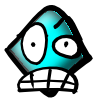
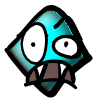
Emotions was realized.

Changed region(s): [[0.15, 0.57, 0.81, 0.96]]

diff --git a/trunk/dicewars/src/ru/icl/dicewars/gui/InfoJPanel.java b/trunk/dicewars/src/ru/icl/dicewars/gui/InfoJPanel.java
@@ -15,7 +15,7 @@ public class InfoJPanel extends JPanel {
 	private static final int WIDTH = 180;
 	private static final int HEIGHT = 80;
 	
-	private Map<Flag, PlayerJPanel> players = new HashMap<Flag, PlayerJPanel>();
+	private Map<Flag, PlayerJPanel> playerJPanelMap = new HashMap<Flag, PlayerJPanel>();
 	private Flag winner;
 	private int winnerCount;
 	
@@ -25,14 +25,14 @@ public class InfoJPanel extends JPanel {
 	
 	public void initPlayers(FlagDistributedActivity fda) {
 		int yoffset = 10;
-		for (PlayerJPanel playerPanel : players.values()){
+		for (PlayerJPanel playerPanel : playerJPanelMap.values()){
 			this.remove(playerPanel);
 		}
-		players.clear();
+		playerJPanelMap.clear();
 		for (Flag flag : fda.getFlags()) {
 			PlayerJPanel player = new PlayerJPanel(flag, fda.getNameByFlag(flag));
 			player.setBounds(10, yoffset, WIDTH, HEIGHT);
-			players.put(flag, player);
+			playerJPanelMap.put(flag, player);
 			add(player);
 			yoffset += HEIGHT + 10;
 		}
@@ -41,58 +41,70 @@ public class InfoJPanel extends JPanel {
 	}
 	
 	public void updateReserve(Flag flag, int diceCount) {
-		if (players.containsKey(flag)) {
-			players.get(flag).setReserveCount(diceCount);
-			players.get(flag).repaint();
+		if (playerJPanelMap.containsKey(flag)) {
+			playerJPanelMap.get(flag).setReserveCount(diceCount);
+			playerJPanelMap.get(flag).repaint();
 		}
 	}
 
-	public void updateDiceCount(Flag flag, int count) {
-		if (players.containsKey(flag)) {
-			players.get(flag).setDiceOverallCount(count);
+	public void updateDiceCount(Flag flag, int totalDiceCount) {
+		if (playerJPanelMap.containsKey(flag)) {
+			playerJPanelMap.get(flag).setTotalDiceCount(totalDiceCount);
 			if (winner != null) {
 				if (!flag.equals(winner)) {
-					if (count > winnerCount) {
-						winnerCount = count;
+					if (totalDiceCount > winnerCount) {
+						winnerCount = totalDiceCount;
 						changeWinnerTo(winner, flag);
+						for (PlayerJPanel playerJPanel : playerJPanelMap.values()){
+							playerJPanel.setWinnerTotalDiceCount(winnerCount);
+							playerJPanel.repaint();
+						}
 					}	
-				} else if (count > winnerCount) {
-					winnerCount = count;
+				} else if (totalDiceCount > winnerCount) {
+					winnerCount = totalDiceCount;
+					for (PlayerJPanel playerJPanel : playerJPanelMap.values()){
+						playerJPanel.setWinnerTotalDiceCount(winnerCount);
+						playerJPanel.repaint();
+					}
 				} else { // check if another player became a winner
-					winnerCount = count;
+					winnerCount = totalDiceCount;
 					Flag previousWinner = winner;
-					for (PlayerJPanel player : players.values()) {
-						if (!player.getFlag().equals(winner) && player.getDiceOverallCount() > winnerCount) {
+					for (PlayerJPanel player : playerJPanelMap.values()) {
+						if (!player.getFlag().equals(winner) && player.getTotalDiceCount() > winnerCount) {
 							winner = player.getFlag();
-							winnerCount = player.getDiceOverallCount(); 
+							winnerCount = player.getTotalDiceCount(); 
 						}
 					}
 					// winner has been changed
 					if (!previousWinner.equals(winner)) {
 						changeWinnerTo(previousWinner, winner);
+						for (PlayerJPanel playerJPanel : playerJPanelMap.values()){
+							playerJPanel.setWinnerTotalDiceCount(winnerCount);
+							playerJPanel.repaint();
+						}
 					}
 				}
 			} else {
 				winner = flag;
-				winnerCount = count;
-				players.get(flag).setWinner(true);
+				winnerCount = totalDiceCount;
+				playerJPanelMap.get(flag).setWinner(true);
 			}
-			players.get(flag).repaint();
+			playerJPanelMap.get(flag).repaint();
 		}
 	}
 	
 	private void changeWinnerTo(Flag from, Flag to) {
-		players.get(from).setWinner(false);
-		players.get(from).repaint();
-		players.get(to).setWinner(true);
-		players.get(to).repaint();
+		playerJPanelMap.get(from).setWinner(false);
+		playerJPanelMap.get(from).repaint();
+		playerJPanelMap.get(to).setWinner(true);
+		playerJPanelMap.get(to).repaint();
 		winner = to;
 	}
 	
 	public void updateAreaCount(Flag flag, int count) {
-		if (players.containsKey(flag)) {
-			players.get(flag).setAreaCount(count);
-			players.get(flag).repaint();
+		if (playerJPanelMap.containsKey(flag)) {
+			playerJPanelMap.get(flag).setAreaCount(count);
+			playerJPanelMap.get(flag).repaint();
 		}
 	}
 	

diff --git a/trunk/dicewars/src/ru/icl/dicewars/gui/PlayerJPanel.java b/trunk/dicewars/src/ru/icl/dicewars/gui/PlayerJPanel.java
@@ -18,15 +18,14 @@ public class PlayerJPanel extends JPanel {
 	private Flag flag;
 	private Color color;
 	private String playerName;
-	private int diceOverallCount = 0;
+	private int totalDiceCount = 0;
 
 	private int areaCount = 0;
 	private int reserveCount = 0;
-	private boolean outOfTheGame = false;
+	private int winnerTotalDiceCount = 0;
 	private int rank = 0;
 	private boolean winner = false;
-	
-	
+		
 	private final static int radius = 12; 
 	private final static int alpha = 90; 
 	
@@ -46,16 +45,9 @@ public class PlayerJPanel extends JPanel {
 		
 		g.setColor(Color.black);
 		g.drawString(playerName, 67, 20);
-		g.drawString("Dice count: " + String.valueOf(diceOverallCount), 67, 41);
+		g.drawString("Dice count: " + String.valueOf(totalDiceCount), 67, 41);
 		g.drawString("Dice per turn: " + String.valueOf(areaCount), 67, 55);
 		g.drawString("Reserve: " + String.valueOf(reserveCount), 67, 69);
-		
-		if (outOfTheGame) {
-			g.drawString("OUT", 140, 25);
-			if (rank > 0) {
-				g.drawString("Place: " + String.valueOf(rank), 15, 78);
-			}
-		}		
 	}
 	
 	@Override
@@ -65,11 +57,20 @@ public class PlayerJPanel extends JPanel {
 		Image avatar = null;	
 		if (winner) {
 			g.drawImage(ImageManager.getTrophy(), 147, 2, 48, 48, this);
-			avatar = ImageManager.getAvatar(flag, 1);
-		}else{
-			avatar = ImageManager.getAvatar(flag, 2);
+			avatar = ImageManager.getAvatar(flag, Emotion.HAPPY.value());
 		}
-		
+		if (winnerTotalDiceCount * 2 / 3 > totalDiceCount){
+			avatar = ImageManager.getAvatar(flag, Emotion.CALM.value());
+		}
+		if (winnerTotalDiceCount * 1 / 3 > totalDiceCount){
+			avatar = ImageManager.getAvatar(flag, Emotion.SAD.value());
+		}
+		if (totalDiceCount == 0){
+			avatar = ImageManager.getAvatar(flag, Emotion.EVIL.value());
+		}
+		if (avatar == null){
+			avatar = ImageManager.getAvatar(flag, Emotion.SMILING.value());
+		}
 		if (avatar != null) g.drawImage(avatar, radius - 12, radius - 4, 64, 64, this);
 	}
 
@@ -81,35 +82,61 @@ public class PlayerJPanel extends JPanel {
 		return areaCount;
 	}
 	
-	public Color getColor() {
-		return color;
-	}
-	
-	public void setDiceOverallCount(int diceOverallCount) {
-		this.diceOverallCount = diceOverallCount;
-	}
-
 	public void setReserveCount(int reserveCount) {
 		this.reserveCount = reserveCount;
 	}
 	
-	public int getDiceOverallCount() {
-		return diceOverallCount;
+	public int getReserveCount() {
+		return reserveCount;
+	}
+	
+	public int getTotalDiceCount() {
+		return totalDiceCount;
+	}
+	
+	public void setTotalDiceCount(int totalDiceCount) {
+		this.totalDiceCount = totalDiceCount;
 	}
 	
 	public Flag getFlag() {
 		return flag;
 	}
 	
-	public void setOutOfTheGame(boolean outOfTheGame) {
-		this.outOfTheGame = outOfTheGame;
-	}
-	
 	public void setRank(int rank) {
 		this.rank = rank;
 	}
 	
+	public int getRank() {
+		return rank;
+	}
+	
 	public void setWinner(boolean winner) {
 		this.winner = winner;
+	}
+	
+	public boolean isWinner() {
+		return winner;
+	}
+	
+	public void setWinnerTotalDiceCount(int winnerTotalDiceCount) {
+		this.winnerTotalDiceCount = winnerTotalDiceCount;
+	}
+	
+	public int getWinnerTotalDiceCount() {
+		return winnerTotalDiceCount;
+	}
+	
+	private static enum Emotion{
+		HAPPY(1), SMILING(2), CALM(3), SAD(4), EVIL(5);
+		
+		int i;
+		
+		private Emotion(int i){
+			this.i = i;
+		}
+		
+		public int value(){
+			return i;
+		}
 	}
 }
